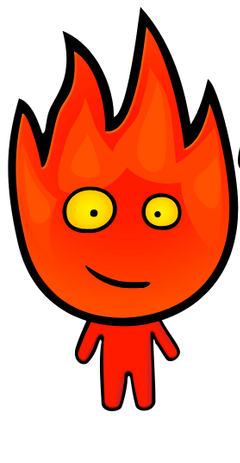
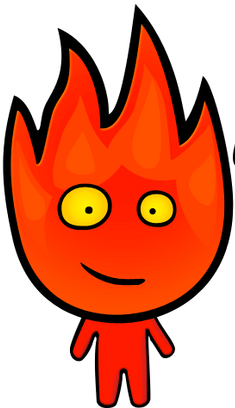
commit message

diff --git a/sample.py b/sample.py
@@ -1,35 +1,32 @@
 import sys
 import pygame
-from level import Level
-from game_data import level_0
 
 pygame.init()
 
-screen_width = 1410
-screen_height = 600
+screen_width = 1280
+screen_height = 720
 screen = pygame.display.set_mode((screen_width, screen_height))
-level = Level(level_0, screen)
 pygame.display.set_caption("My Platform Game")
 
 player_width = 50
-player_height = 90
+player_height = player_width*1.6
 
-background_image = pygame.image.load("background.png").convert()
+#background_image = pygame.image.load("background.png").convert()
 
 fireboy_image = pygame.image.load("Fireboy.png").convert_alpha()
 fireboy_image = pygame.transform.scale(fireboy_image, (player_width, player_height))
 
 watergirl_image = pygame.image.load("Watergirl.png").convert_alpha()
 watergirl_image = pygame.transform.scale(watergirl_image, (player_width, player_height))
-picture = pygame.transform.scale(background_image, (screen_width, screen_height))
+#picture = pygame.transform.scale(background_image, (screen_width, screen_height))
 
 class Fireboy(pygame.sprite.Sprite):
     def __init__(self):
         super().__init__()
         self.image = fireboy_image
         self.rect = self.image.get_rect()
-        self.rect.x = 100
-        self.rect.y = 100
+        self.rect.x = 20
+        self.rect.y = screen_height - 130
         self.speed = 1
         self.velocity = pygame.math.Vector2(0, 0)
         self.gravity = 0.1
@@ -66,8 +63,8 @@ class Watergirl(pygame.sprite.Sprite):
         super().__init__()
         self.image = watergirl_image
         self.rect = self.image.get_rect()
-        self.rect.x = 100
-        self.rect.y = 100
+        self.rect.x = 20
+        self.rect.y = screen_height - 300
         self.speed = 1
         self.velocity = pygame.math.Vector2(0, 0)
         self.gravity = 0.01
@@ -104,24 +101,67 @@ watergirl = Watergirl()
 class Platform(pygame.sprite.Sprite):
     def __init__(self, x, y, width, height):
         super().__init__()
-        self.image = pygame.Surface([width, height])
+        self.image = pygame.surface.Surface([width, height])
         self.image.fill((255, 255, 255))
         self.rect = self.image.get_rect()
         self.rect.x = x
         self.rect.y = y
+        self.width = width
+        self.height = height
+
+class Button(pygame.sprite.Sprite):
+    def __init__(self, x, y, width, height):
+        super().__init__()
+        self.image = pygame.surface.Surface([width, height])
+        self.image.fill((255, 255, 255))
+        self.rect = self.image.get_rect()
+        self.rect.x = x
+        self.rect.y = y
+        self.width = width
+        self.height = height
+    def update(self, player):
+        if pygame.sprite.collide_rect(self, player):
+            return True
+        return False
+class Door(pygame.sprite.Sprite):
+    def __init__(self, x, y, width, height):
+        super().__init__()
+        self.image = pygame.surface.Surface([width, height])
+        self.image.fill((255, 255, 255))
+        self.rect = self.image.get_rect()
+        self.rect.x = x
+        self.rect.y = y
+        self.width = width
+        self.height = height
+    def update(self, bool, d):
+        if(bool):
+            self.rect.x = d
+        else:
+            self.rect.y = d
+
 
 platforms = pygame.sprite.Group()
+doors = pygame.sprite.Group()
+buttons = pygame.sprite.Group()
+
 platforms.add(Platform(0, screen_height - 50, screen_width, 50))
-platforms.add(Platform(100, 500, 200, 20))
-platforms.add(Platform(0, 400, 200, 20))
-platforms.add(Platform(300, 300, 200, 20))
+platforms.add(Platform(0, screen_height - 220, 200, 20))
+platforms.add(Platform(0, screen_height - 390, screen_width - 600, 20))
+platforms.add(Platform(screen_width - 80, screen_height - 120, screen_width - 1200, 20))
+platforms.add(Platform(screen_width - 300, screen_height - 200, screen_width - 1200, 20))
+platforms.add(Platform(screen_width - 520, screen_height - 280, screen_width - 1200, 20))
+platforms.add(Platform(screen_width - 380, screen_height - 360, screen_width - 1200, 20))
+door1 = Door(300, 200, 20, 150)
+button1 = Button(550, 310, 20, 20)
+
+timer = 0
 
 while True:
     for event in pygame.event.get():
         if event.type == pygame.QUIT:
             pygame.quit()
             sys.exit()
-    level.run()
+    screen.fill('grey')
 
     fireboy.update()
     platform_collisions = pygame.sprite.spritecollide(fireboy, platforms, False)
@@ -151,14 +191,48 @@ while True:
             break
     else:
         watergirl.gravity = 0.01
+
     for platform in platform_collisions:
         if watergirl.rect.right == platform.rect.left+1:
             watergirl.rect.right = platform.rect.left
         if watergirl.rect.left == platform.rect.right-1:
             watergirl.rect.left = platform.rect.right
 
-    screen.blit(picture, (0, 0))
+    if button1.update(watergirl):
+        door1.update(False, 350)
+        print("ad")
+        watergirl.rect.bottom = button1.rect.top
+        watergirl.is_jumping = False
+        watergirl.velocity.y = 0
+        watergirl.gravity = 0
+        timer = 100
+
+    if button1.update(fireboy):
+        door1.update(False, 350)
+        fireboy.rect.bottom = button1.rect.top
+        fireboy.is_jumping = False
+        fireboy.velocity.y = 0
+        fireboy.gravity = 0
+        timer = 100
+
+    timer -= 1
+
+    if(timer < 1):
+        door1.rect.y = 200
+
+
+    if pygame.sprite.collide_rect(door1, watergirl):
+        watergirl.rect.x = door1.rect.right
+    if pygame.sprite.collide_rect(door1, fireboy):
+        fireboy.rect.x = door1.rect.right
+
+
+
+
+    #screen.blit(picture, (0, 0))
     platforms.draw(screen)
+    screen.blit(button1.image, button1.rect)
+    screen.blit(door1.image, door1.rect)
     screen.blit(fireboy.image, fireboy.rect)
     screen.blit(watergirl.image, watergirl.rect)
     pygame.display.update()
